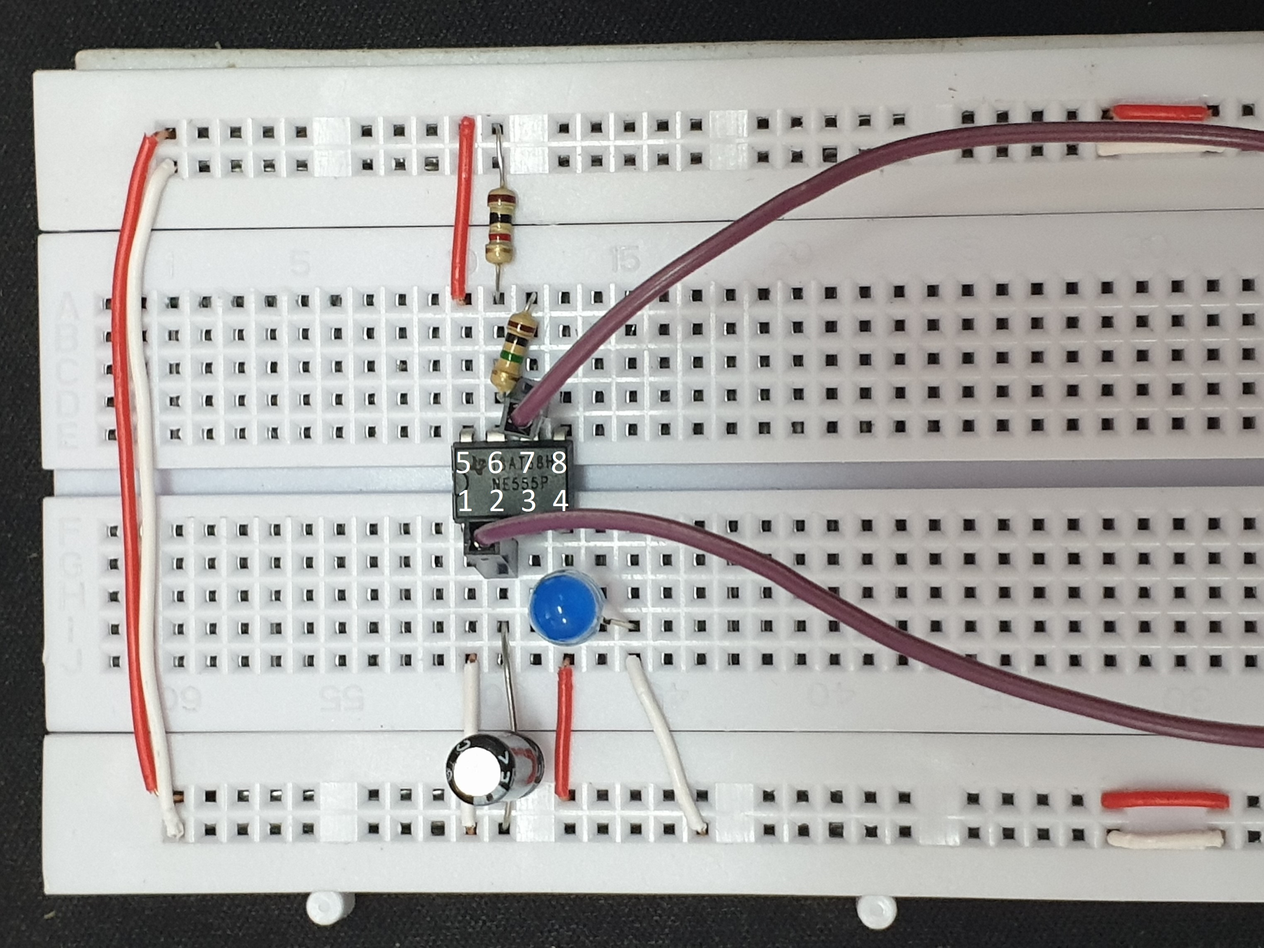
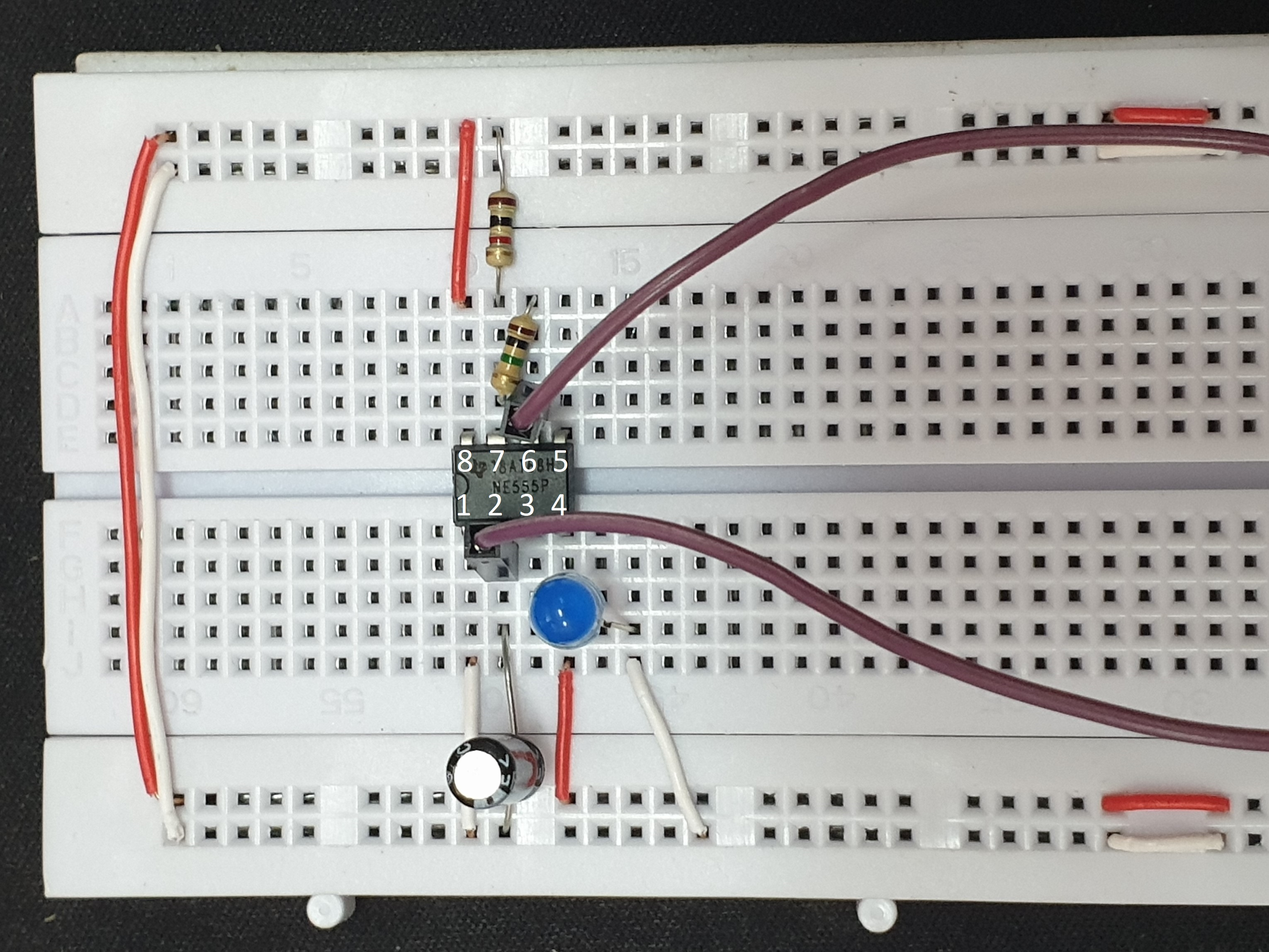
Update clock module

diff --git a/Clock/README.vn.md b/Clock/README.vn.md
@@ -1,0 +1,39 @@
+# Clock Module
+
+*Đọc ở các ngôn ngữ khác: [English](README.md), [Tiếng Việt](README.vn.md)*
+
+## SR Latch
+
+(Hướng dẫn cách hoạt động của SR latch sẽ bổ sung sau)
+
+## 555 Timer Circuit
+
+Có rất nhiều cách để tạo một module clock cho máy tính. Nhưng cái ta cần ở module là tính linh hoạt. Chúng ta cần có thể điều chỉnh được tốc độ nhanh chậm của đồng hồ. Không muốn nó trở nên quá nhanh và khó thấy được. Hoặc trở nên quá chậm và tốn thời gian. Có một cách để tạo đồng hồ điều chỉnh được là dùng chip 555.
+
+![Simple Timer Image](SimpleTimer.jpg "Simple Timer")
+
+Chip 555 được cấp điện bằng dòng điện 5V từ pin 5 và nối đất ở pin 1. Để điều khiển được tốc độ nhanh chậm chúng ta có 2 điện trở, một là điện trờ 1K Ohm từ nguồn 5V đến pin 7 và cái còn lại là điện trở 1M Ohm nối giữa pin 6 và 7. Pin 6 và pin 2 được nối với nhau bằng sợi dây màu tím như hình. Một tụ điện 1μF nối từ pin 2 tới đất. Và đầu ra của chip (Pin 3) được nối với một đèn LED.
+
+![Diagram](Diagram.gif "Diagram")
+
+Sơ đồ phía trên mô tả cách hoạt động của chip 555.
+
+Bên trong chip chúng ta có ba điện trở 5K Ohm (Đoán xem vì sao nó có tên 555 timer). Chúng được mắc nối tiếp nhau và nối từ nguồn điện 5V rồi trực tiếp nối đất. Điều này có nghĩa là điện thế ở điểm sau điện trở đầu tiên sẽ là 3.33V. Điện thế ở điểm giữa điện trở thứ hai và thứ ba là 1.67V. Chú ý điều này là rất quan trọng trong việc điều khiển chip 555.
+
+Khi chúng ta mới kết nối mạch với nguồn điện, điện thế ở pin 6 và 2 bằng điện thế của tụ điện và bằng 0V. Điều này sẽ đặt trạng thái ban đầu của hai mạch so sánh (Mạch so sánh, kí hiệu hình tam giác, là mạch so sánh điện thế ở hai đầu âm dương nếu điện thế đầu âm cao hơn thì sẽ cho ra tín hiệu thấp hoặc là 0 còn nếu điện thế ở đầu dương cao hơn thì sẽ cho ra tín hiệu cao hoặc là 1). Đầu tiền, ở mạch so sánh phía trên, đầu dương sẽ có điện thế là 0V đầu âm sẽ có điện thế là 3.33V, điều này có nghĩa là nó sẽ cho ra tín hiệu 0. Còn mạch so sánh phía dưới thì ngược lại, đầu dương sẽ có điện thế là 1.67V còn đầu âm thì 0V, và nó sẽ cho ra tín hiệu 1. Tín hiệu 1 ở mạch phía dưới sẽ bật flip-flop (SR latch) lên và đầu ra Q của flip-flop sẽ cho ra tín hiệu 1, làm sáng đèn LED.
+
+Sau đó dòng điện sẽ chạy từ nguồn, rồi đến điện trở thứ nhất (1K) đến điện trở thứ hai (1M) và sạc tụ điện. Khi tụ điện sạc, thì điện thế của tụ điện tăng dần, cùng với đó là điện thế ở pin 2 và pin 6. Tụ điện được sạc cho đến khi điện thế tụ điện vượt qua 3.33V. Khi đó thì các mạch so sánh có sự thay đổi. Mạch so sánh phía dưới đầu âm sẽ có hiệu điện thế cao hơn 3.33V và cho ra tín hiệu 0. Còn mạch so sánh phía trên đầu dương sẽ có điện thế cao hơn 3.33V nên sẽ cho ra tín hiệu 1. Và sẽ đặt lại (Reset) flip-flop, đầu ra Q sẽ là 0 và ngược lại đầu not(Q) sẽ là 1.
+
+Khi đầu not(Q) là 1, nó sẽ kích hoạt bán dẫn ở pin 7 và cho phép dòng điện chạy trực tiếp từ pin 7 xuống đất. Ở trạng thái này, cà dòng điện từ nguồn và dòng điện từ tụ điện điều xả điện thông qua pin 7. Điện thế của tụ điện (hay nói cábmkjkiktyujuhb7iruch khác là pin 2 và pin 6) sẽ giảm từ từ, đến một lúc điện thế sẽ giảm xuống dưới 1.67V. Lúc này bạn có thể đoán được là chuyện gì sẽ xảy ra. Trạng thái bang đầu sẽ xảy ra, có nghĩa là mạch so sánh trên sẽ cho ra 0 còn mạch so sách dưới sẽ cho ra 1, điều này sẽ đặt (Set) mạch flip-flop của chúng ta và kết quả đầu ra Q là 1 và not(Q) là 0. Sau đó tụ điện sẽ được sạc, và điện thế sẽ tăng.
+
+![Simple Timer Behavior](SimpleTimerBehavior.gif "Simple Timer Behavior")
+
+Vòng lặp này sẽ tiếp diễn liên tục, và kết quả sẽ cho ra một đèn LED (hay output của chúng ta) nhấp nháy. Bạn có thể thấy rằng, tốc độ sạc nhanh hay chậm của tụ điện phụ thuộc vào giá trị của hai điện trở, vì dòng điện chạy qua hai điện trở rồi mới sạc tụ điên. Vậy nếu điện trở có giá trị càng cao thì tốc độ sạc càng chậm và ngược lại.
+
+Thêm một lưu ý nữa là, vì khi sạc dòng điện đi qua 2 điện trở nhưng khi xả điện thì dòng điện chỉ đi qua một điện trở ở pin 6 và pin 7. Vì vậy để thời gian tắt và bật của mạch được gần như tương đương nhau, chúng ta nên dùng một điện trở nhỏ (1K) và một điện trở rất lớn (1M) hơn ở pin 2 và pin 6. Lớn hơn gấp 1000 lần nên thời gian tắt bật khá ngang nhau.
+
+Và để dễ dàng debug, chúng ta cần thay điện trở ở pin 2 và pin 6 thành một biến trở. Cụ thể ở đây dùng biến trở 1M. Và một điện trở nhỏ để làm giời hạn nhỏ của tốc độ.
+
+Và thế là ta có một clock module có thể điều chỉnh tốc độ.
+
+![Timer Behavior](TimerBehavior.gif "Timer Behavior")

diff --git a/Clock/README.md b/Clock/README.md
@@ -1,5 +1,7 @@
 # Clock Module
 
+*Read this in other languages: [English](README.md), [Tiếng Việt](README.vn.md)*
+
 ## SR Latch
 This one is how SR latch works
 
@@ -9,9 +11,25 @@ There are a lot of ways to build a clock for the computer. But we want the clock
 
 ![Simple Timer Image](SimpleTimer.jpg "Simple Timer")
 
-The 555 timer is powered by a 5V goes to pin 5 and and grounded to pin 1. And to control the timing, we have two resitors, 1k Ohm resistor goes from 5V to pin 6 and 1M Ohm resistor goes from pin 6 to pin 7 of the chip. Pin 7 and pin 2 are connected by the purple wire like above. A capacitor 1μF goes from pin 2 to ground. And the output of the chip is connected to an LED.
+The 555 timer is powered by a 5V goes to pin 5 and and grounded to pin 1. And to control the timing, we have two resitors, 1k Ohm resistor goes from 5V to pin 7 and 1M Ohm resistor goes from pin 6 to pin 7 of the chip. Pin 6 and pin 2 are connected by the purple wire like above. A capacitor 1μF goes from pin 2 to ground. And the output of the chip (Pin 3) is connected to an LED.
 
 ![Diagram](Diagram.gif "Diagram")
 
-This diagram is one way to understand what is going on inside the 555 timer.
+This diagram is one way to understand what is going on inside the 555 timer. 
 
+Inside the timer we have three 5K Ohm resistors (That is where the name "555" comes from). And they form a series and go from 5V to ground. This will make the voltage after passing the first resistor will be around 3.33V and after passing the second resistor is 1.67V.
+
+When we first power it up, Pin 2, 6, and 7 are all have 0V. This will set the initial state for the comparators. (The way a comparator/"Triangle" work is it simply output which pin has the higher voltage). The top comparator has 3.33V at the negative input and 0V at the positive input, then the comparator will be off. The similar thing happens at the bottom comparator, we have the positive input is 1.67V and the negative input is 0V, the comparator will be on. This implies the SR latch is set, the latch will output on and the LED will be up.
+
+What will happen next is the current is going to flow through 1K resistor and 1M resistor, then charge the capacitor. While the capacitor is charging, the voltage at Threshold and Trigger will rise until it get above 3.33V. At that point, the top comparator will be on and reset the SR latch. The result is the output will be off.
+
+When the output is off, we have oposite pin will be on then it will active the transitor and allow current to go through it. At this state, both current from power source and the capacitor will go to pin 7. The capacitor will start to discharge. The voltage at pin 6 and 2 will fall until it hit below 1.67V. Then it will start to charge again.
+
+
+![Simple Timer Behavior](SimpleTimerBehavior.gif "Simple Timer Behavior")
+
+This loop will continue and the circuit final behavior will be on and off over and over again, implies that the LED will flash. And you can see that, the charging speed of the capacitor depend on the value of the resistor and the capacitor itself. When charging it will go though 2 resistors but when discharging it will go through only 1. Therefore, to make the timing of on and off state to be the same, we should choose one resistor to be extremely smaller than (in this case is 0.1%). Lastly, we can control the speed of the circuit by replacing the resistor to be a potentiometer. In this case i use 1M potentiometer.
+
+This is the clock with adjustable speed.
+
+![Timer Behavior](TimerBehavior.gif "Timer Behavior")
